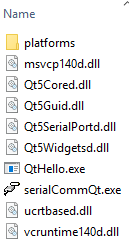
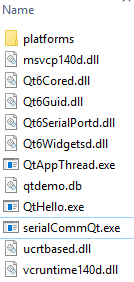
update qt to v6.

diff --git a/post/qt-serialport/index.html b/post/qt-serialport/index.html
@@ -29,7 +29,7 @@
     
     <meta property="og:description" content="涉及信号-槽、多线程" />
   	<meta property="og:type" content="article" />
-    <meta property="article:published_time" content="2021-11-24T06:18:08&#43;08:00" />
+    <meta property="article:published_time" content="2021-11-27T06:18:08&#43;08:00" />
 
     
     
@@ -92,15 +92,15 @@
     },
     "headline": "使用qt5编写Serial Port",
     "name": "使用qt5编写Serial Port",
-    "wordCount":  277 ,
+    "wordCount":  286 ,
     "timeRequired": "PT2M",
     "inLanguage": {
       "@type": "Language",
       "alternateName": "en"
     },
     "url": "https://tdtc-hrb.github.io/cnblogs/post/qt-serialport/",
-    "datePublished": "2021-11-24T06:18Z",
-    "dateModified": "2021-11-24T06:18Z",
+    "datePublished": "2021-11-27T06:18Z",
+    "dateModified": "2021-11-27T06:18Z",
     
     
     "description": "涉及信号-槽、多线程",
@@ -168,8 +168,8 @@
 
         <section class="post-meta">
         
-          <time class="post-date" datetime="2021-11-24T06:18:08&#43;08:00">
-            Nov 24, 2021
+          <time class="post-date" datetime="2021-11-27T06:18:08&#43;08:00">
+            Nov 27, 2021
           </time>
         
          
@@ -183,9 +183,9 @@
 <p>线程相关</p>
 </blockquote>
 <h2 id="asynchronously">asynchronously</h2>
-<p><a href="https://doc.qt.io/qt-5/qobject.html#connect">connect方法</a>已实现异步。</p>
+<p><a href="https://doc.qt.io/qt-6/qobject.html#connect">connect方法</a>已实现异步。</p>
 <h2 id="synchronously">synchronously</h2>
-<p><a href="https://doc.qt.io/qt-5/qmutexlocker.html">qmutexlocker</a></p>
+<p><a href="https://doc.qt.io/qt-6/qmutexlocker.html">qmutexlocker</a></p>
 <h3 id="创建信号锁">创建信号锁</h3>
 <div class="highlight"><pre tabindex="0" style="color:#f8f8f2;background-color:#272822;-moz-tab-size:4;-o-tab-size:4;tab-size:4"><code class="language-c++" data-lang="c++">QMutexLocker <span style="color:#a6e22e">locker</span>(<span style="color:#f92672">&amp;</span>m_mutex);
 </code></pre></div><h2 id="信号">信号</h2>
@@ -216,19 +216,12 @@
 <h2 id="qt-vs-tools-setting">Qt VS Tools setting</h2>
 <h3 id="qt-version">Qt version</h3>
 <p>Qt VS Tools -&gt; Qt Versions</p>
-<p>x86 setup:</p>
-<ul>
-<li>Host <br>
-Windows</li>
-<li>Path <br>
-C:\Qt\Qt5.12.11\5.12.11\msvc2017</li>
-</ul>
 <p>x64 setup:</p>
 <ul>
 <li>Host <br>
 Windows</li>
 <li>Path <br>
-C:\Qt\Qt5.12.11\5.12.11\msvc2017_64</li>
+C:\Qt\6.2.1\msvc2019_64</li>
 </ul>
 <h3 id="qt-designer">Qt Designer</h3>
 <p>Qt VS Tools -&gt; Qt General</p>
@@ -237,35 +230,33 @@ C:\Qt\Qt5.12.11\5.12.11\msvc2017_64</li>
 Run in detached window: True</li>
 </ul>
 <h2 id="qt-in-vc-project-property">Qt in VC project property</h2>
-<h3 id="qt-project-settings">Qt project settings</h3>
-<ul>
-<li>General <br>
-Qt installation: 5.12.11_msvc2017</li>
-</ul>
-<h3 id="include-directories">Include Directories</h3>
-<p>VC++ Directories -&gt; Include Directories
-add:</p>
-<div class="highlight"><pre tabindex="0" style="color:#f8f8f2;background-color:#272822;-moz-tab-size:4;-o-tab-size:4;tab-size:4"><code class="language-bash" data-lang="bash">C:<span style="color:#ae81ff">\Q</span>t<span style="color:#ae81ff">\Q</span>t5.12.11<span style="color:#ae81ff">\5</span>.12.11<span style="color:#ae81ff">\m</span>svc2017<span style="color:#ae81ff">\i</span>nclude
-C:<span style="color:#ae81ff">\Q</span>t<span style="color:#ae81ff">\Q</span>t5.12.11<span style="color:#ae81ff">\5</span>.12.11<span style="color:#ae81ff">\m</span>svc2017_64<span style="color:#ae81ff">\i</span>nclude
-</code></pre></div><h1 id="deploy-for-windows">Deploy for windows</h1>
+<h3 id="support-c17">support c++17</h3>
+<p>Configuration Properties &gt; C/C++ &gt; Language</p>
+<p>c++ language standard: c++17</p>
+<h3 id="support-cplusplus">support cplusplus</h3>
+<p>Configuration Properties &gt; C/C++ &gt; Command Line property page.</p>
+<p>Add <code>bash /Zc:__cplusplus </code> to the Additional options: pane.</p>
+<h1 id="deploy-for-windows">Deploy for windows</h1>
 <ul>
 <li>
 <p>Step 1: <br>
-start -&gt; Visual Studio 2017 -&gt; Developer Command Prompt for VS 2017</p>
+start -&gt; Visual Studio 2019 -&gt; Developer Command Prompt for VS 2019</p>
 </li>
 <li>
 <p>Step 2:</p>
 </li>
 </ul>
 <div class="highlight"><pre tabindex="0" style="color:#f8f8f2;background-color:#272822;-moz-tab-size:4;-o-tab-size:4;tab-size:4"><code class="language-bash" data-lang="bash">cd <span style="color:#ae81ff">\
-</span><span style="color:#ae81ff"></span>cd C:<span style="color:#ae81ff">\Q</span>t<span style="color:#ae81ff">\Q</span>t5.12.11<span style="color:#ae81ff">\5</span>.12.11<span style="color:#ae81ff">\m</span>svc2017<span style="color:#ae81ff">\b</span>in
+</span><span style="color:#ae81ff"></span>cd C:<span style="color:#ae81ff">\Q</span>t<span style="color:#ae81ff">\6</span>.2.1<span style="color:#ae81ff">\m</span>svc2019_64<span style="color:#ae81ff">\b</span>in
 </code></pre></div><ul>
 <li>Step 3: <br>
 copy exe(release version) to target directory.</li>
 </ul>
-<div class="highlight"><pre tabindex="0" style="color:#f8f8f2;background-color:#272822;-moz-tab-size:4;-o-tab-size:4;tab-size:4"><code class="language-bash" data-lang="bash">copy C:<span style="color:#ae81ff">\U</span>sers<span style="color:#ae81ff">\t</span>dtc<span style="color:#ae81ff">\D</span>ocuments<span style="color:#ae81ff">\V</span>isual Studio 2017<span style="color:#ae81ff">\P</span>rojects<span style="color:#ae81ff">\s</span>erialCommQt<span style="color:#ae81ff">\R</span>elease<span style="color:#ae81ff">\s</span>erialCommQt.exe C:<span style="color:#ae81ff">\U</span>sers<span style="color:#ae81ff">\t</span>dtc<span style="color:#ae81ff">\D</span>ocuments<span style="color:#ae81ff">\s</span>erialCommQt<span style="color:#ae81ff">\
-</span></code></pre></div><p>exec windeployqt</p>
-<div class="highlight"><pre tabindex="0" style="color:#f8f8f2;background-color:#272822;-moz-tab-size:4;-o-tab-size:4;tab-size:4"><code class="language-bash" data-lang="bash">windeployqt --qmldir C:<span style="color:#ae81ff">\U</span>sers<span style="color:#ae81ff">\t</span>dtc<span style="color:#ae81ff">\D</span>ocuments<span style="color:#ae81ff">\V</span>isual Studio 2017<span style="color:#ae81ff">\P</span>rojects<span style="color:#ae81ff">\s</span>erialCommQt C:<span style="color:#ae81ff">\U</span>sers<span style="color:#ae81ff">\t</span>dtc<span style="color:#ae81ff">\D</span>ocuments<span style="color:#ae81ff">\s</span>erialCommQt<span style="color:#ae81ff">\s</span>erialCommQt.exe
+<div class="highlight"><pre tabindex="0" style="color:#f8f8f2;background-color:#272822;-moz-tab-size:4;-o-tab-size:4;tab-size:4"><code class="language-bash" data-lang="bash">copy C:<span style="color:#ae81ff">\U</span>sers<span style="color:#ae81ff">\t</span>dtc<span style="color:#ae81ff">\D</span>ocuments<span style="color:#ae81ff">\V</span>isual Studio 2019<span style="color:#ae81ff">\P</span>rojects<span style="color:#ae81ff">\s</span>erialCommQt<span style="color:#ae81ff">\R</span>elease<span style="color:#ae81ff">\s</span>erialCommQt.exe C:<span style="color:#ae81ff">\U</span>sers<span style="color:#ae81ff">\t</span>dtc<span style="color:#ae81ff">\D</span>ocuments<span style="color:#ae81ff">\s</span>erialCommQt<span style="color:#ae81ff">\
+</span></code></pre></div><p>exec windeployqt for QML:</p>
+<div class="highlight"><pre tabindex="0" style="color:#f8f8f2;background-color:#272822;-moz-tab-size:4;-o-tab-size:4;tab-size:4"><code class="language-bash" data-lang="bash">windeployqt --qmldir C:<span style="color:#ae81ff">\U</span>sers<span style="color:#ae81ff">\t</span>dtc<span style="color:#ae81ff">\D</span>ocuments<span style="color:#ae81ff">\s</span>erialCommQt_deploy C:<span style="color:#ae81ff">\U</span>sers<span style="color:#ae81ff">\t</span>dtc<span style="color:#ae81ff">\D</span>ocuments<span style="color:#ae81ff">\s</span>erialCommQt<span style="color:#ae81ff">\s</span>erialCommQt.exe
+</code></pre></div><p>exec windeployqt for other:</p>
+<div class="highlight"><pre tabindex="0" style="color:#f8f8f2;background-color:#272822;-moz-tab-size:4;-o-tab-size:4;tab-size:4"><code class="language-bash" data-lang="bash">windeployqt.exe --dir C:<span style="color:#ae81ff">\U</span>sers<span style="color:#ae81ff">\t</span>dtc<span style="color:#ae81ff">\D</span>ocuments<span style="color:#ae81ff">\q</span>tsqlite3demo C:<span style="color:#ae81ff">\U</span>sers<span style="color:#ae81ff">\t</span>dtc<span style="color:#ae81ff">\D</span>ocuments<span style="color:#ae81ff">\Q</span>tSqlite3Demo.exe
 </code></pre></div><h2 id="support-introduction">Support introduction</h2>
 <p>The &ldquo;d&rdquo; at the end of the file name means the debug version.</p>
 <h3 id="vc-runtime">VC Runtime</h3>
@@ -278,7 +269,7 @@ vcruntime140d.dll</li>
 ucrtbased.dll</li>
 </ul>
 <h3 id="qt-runtime">Qt Runtime</h3>
-<p>The following files are copied from &ldquo;C:\Qt\Qt5.12.11\5.12.11\msvc2017\bin&rdquo;.</p>
+<p>The following files are copied from &ldquo;C:\Qt\6.2.1\msvc2019_64\bin&rdquo;.</p>
 <ul>
 <li>The QtCore runtime <br>
 Qt5Cored.dll</li>
@@ -289,23 +280,21 @@ Qt5Widgetsd.dll</li>
 </ul>
 <h3 id="qt-plugins">Qt Plugins</h3>
 <blockquote>
-<p>The following files are copied from &ldquo;C:\Qt\Qt5.12.11\5.12.11\msvc2017\plugins\platforms&rdquo;.</p>
+<p>The following files are copied from &ldquo;C:\Qt\6.2.1\msvc2019_64\plugins\platforms&rdquo;.</p>
 </blockquote>
 <p>default directory:</p>
 <div class="highlight"><pre tabindex="0" style="color:#f8f8f2;background-color:#272822;-moz-tab-size:4;-o-tab-size:4;tab-size:4"><code class="language-bash" data-lang="bash">./platforms/qwindowsd.dll
 </code></pre></div><p><img src="https://raw.githubusercontent.com/tdtc-hrb/cnblogs/master/images/qt_deploy.png" alt="qt deploy files"></p>
-<p>All Qt GUI applications require a plugin that implements the Qt Platform Abstraction (QPA) layer in Qt 5.  <br>
+<p>All Qt GUI applications require a plugin that implements the Qt Platform Abstraction (QPA) layer in Qt 6.  <br>
 For Windows, the name of the platform plugin is qwindows.dll.</p>
 <h1 id="reference">Reference</h1>
 <ul>
-<li><a href="https://pan.baidu.com/s/178Pa9GI2Z8Y8DtqRmlPb7w">src</a> 提取码: q6m2</li>
+<li><a href="https://pan.baidu.com/s/1osWCBiZAEr_YpIz2O4BOIw">src</a> 提取码: 2g85</li>
 <li><a href="https://forums.raspberrypi.com/viewtopic.php?t=304199">Qt and Serial Communication Tutorial</a></li>
 <li><a href="https://en.wikipedia.org/wiki/Qt_version_history">Qt version history</a></li>
-<li><a href="https://mirrors.tuna.tsinghua.edu.cn/qt/archive/qt/5.12/5.12.11/qt-opensource-windows-x86-5.12.11.exe">v5.12.11</a></li>
-<li><a href="https://download.qt.io/archive/vsaddin/2.7.2/">vs addin</a></li>
-<li><a href="https://www.bogotobogo.com/Qt/Qt5_Deploy_Windows_Plugins_Platforms_qwindows.php">Short Note : Deploying Qt5 on Windows</a></li>
-<li><a href="https://doc.qt.io/Qt-5/windows-deployment.html">Qt for Windows - Deployment</a></li>
+<li><a href="https://doc.qt.io/Qt-6/windows-deployment.html">Qt for Windows - Deployment</a></li>
 <li><a href="https://www.eltima.com/article/how-to-test-serial-port/">RS-232 Testing Guide</a></li>
+<li><a href="https://doc.qt.io/qt-6/cmake-manual.html">Build with CMake</a></li>
 </ul>
 
     </section>

diff --git a/post/index.html b/post/index.html
@@ -175,7 +175,7 @@ signals: void error(const QString &amp;s); void timeout(const QString &amp;s); W
  m_waitTimeout = waitTimeout; Receive data 打开串口
 if (!serial.open(QIODevice::ReadWrite)) { emit error(tr(&#34;Can&#39;t open %1, error code %2&#34;) .arg(m_portName).arg(serial.error())); serial.close(); return; } 接收数据
 while (serial.waitForReadyRead(500)) responseData += serial.read(1024); Dev Qt VS Tools setting Qt version Qt VS Tools -&gt; Qt Versions
-x86 setup: <a class="read-more" href="/cnblogs/post/qt-serialport/">&raquo;</a></p>
+x64 setup: <a class="read-more" href="/cnblogs/post/qt-serialport/">&raquo;</a></p>
         
     </section>
     <footer class="post-meta">
@@ -184,8 +184,8 @@ x86 setup: <a class="read-more" href="/cnblogs/post/qt-serialport/">&raquo;</a><
         
 
         
-        <time class="post-date" datetime="2021-11-24T06:18:08&#43;08:00">
-            24 Nov 2021
+        <time class="post-date" datetime="2021-11-27T06:18:08&#43;08:00">
+            27 Nov 2021
         </time>
     </footer>
 </article>

diff --git a/index.html b/index.html
@@ -210,8 +210,8 @@
         
 
         
-        <time class="post-date" datetime="2021-11-24T06:18:08&#43;08:00">
-            24 Nov 2021
+        <time class="post-date" datetime="2021-11-27T06:18:08&#43;08:00">
+            27 Nov 2021
         </time>
     </footer>
 </article>
